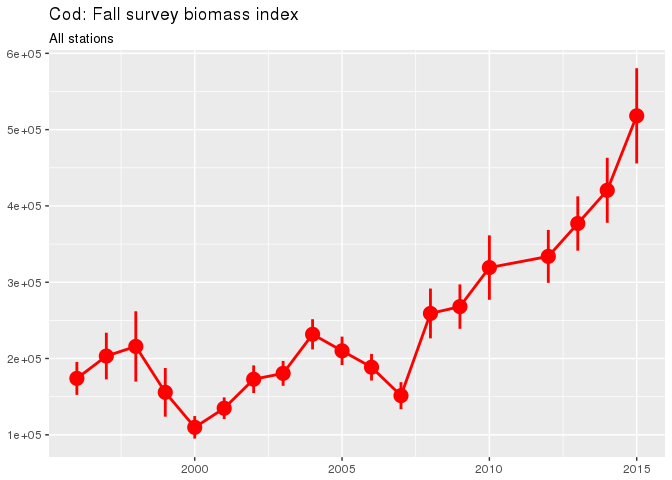
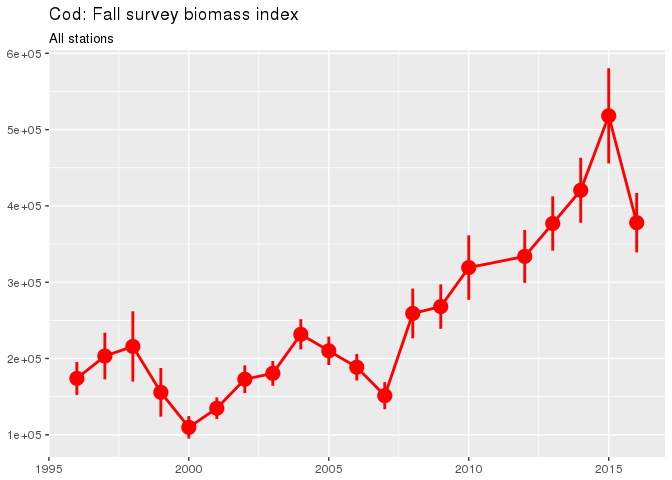
update readme

diff --git a/README.md b/README.md
@@ -192,7 +192,7 @@ spe88$aggr %>% mutate(Species = "Rauða sævesla") %>%
 
 ![](README_files/figure-html/plot3-1.png)<!-- -->
 
-So we have and invasion of Ljóskjafta and Svartgóma in recent years. That must explain the mackerel invasion :-)
+So we have an invasion of Ljóskjafta and Svartgóma in recent years. That must explain the mackerel invasion :-)
 
 NOTE: There is a bug when it comes to the biomass estimates of the two last species. And one needs to double test for when some species were only counted.
 
@@ -218,8 +218,7 @@ Stratas <-
   select(strata, area = rall.area)
 res <- calc_length_indices(Stations, Stratas, 1)
 res$aggr %>% 
-  filter(length == 5,
-         year < 2016) %>%  # sorry - not public yet 
+  filter(length == 5) %>% 
   select(year, cb, cb.cv) %>% 
   ggplot(aes(year, cb)) +
   geom_pointrange(aes(ymin = cb * (1 - cb.cv),
@@ -248,7 +247,7 @@ devtools::session_info()
 ##  language (EN)                        
 ##  collate  is_IS.UTF-8                 
 ##  tz       Atlantic/Reykjavik          
-##  date     2016-12-10                  
+##  date     2016-12-13                  
 ## 
 ##  package    * version    date       source                         
 ##  assertthat   0.1        2013-12-06 CRAN (R 3.0.2)                 
